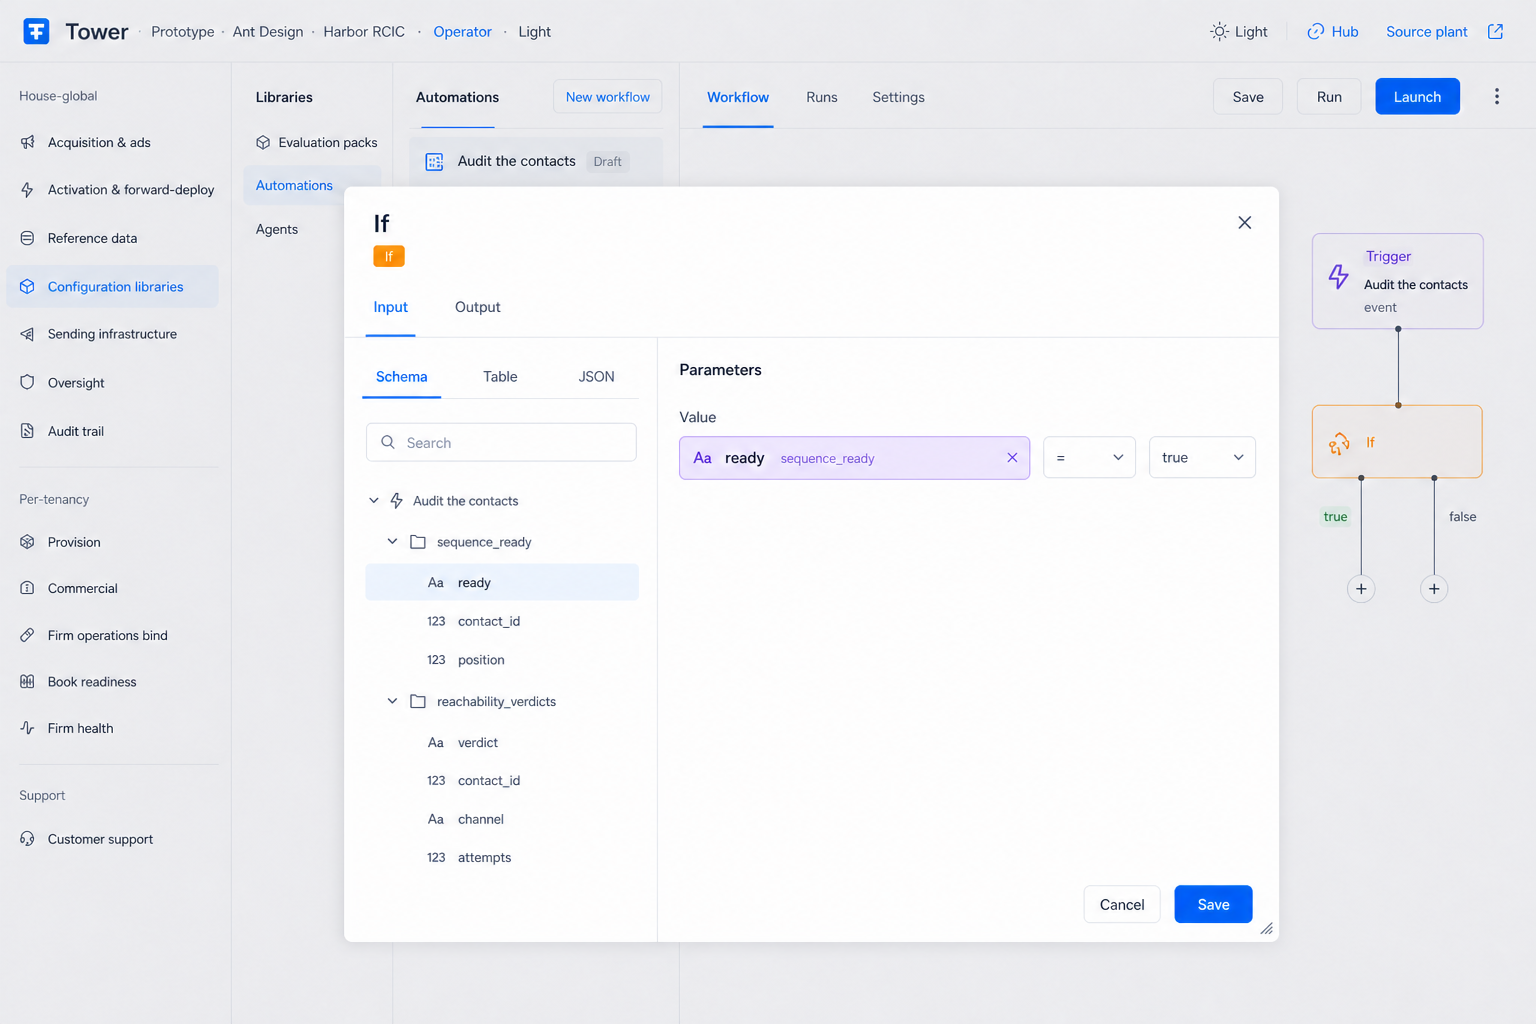
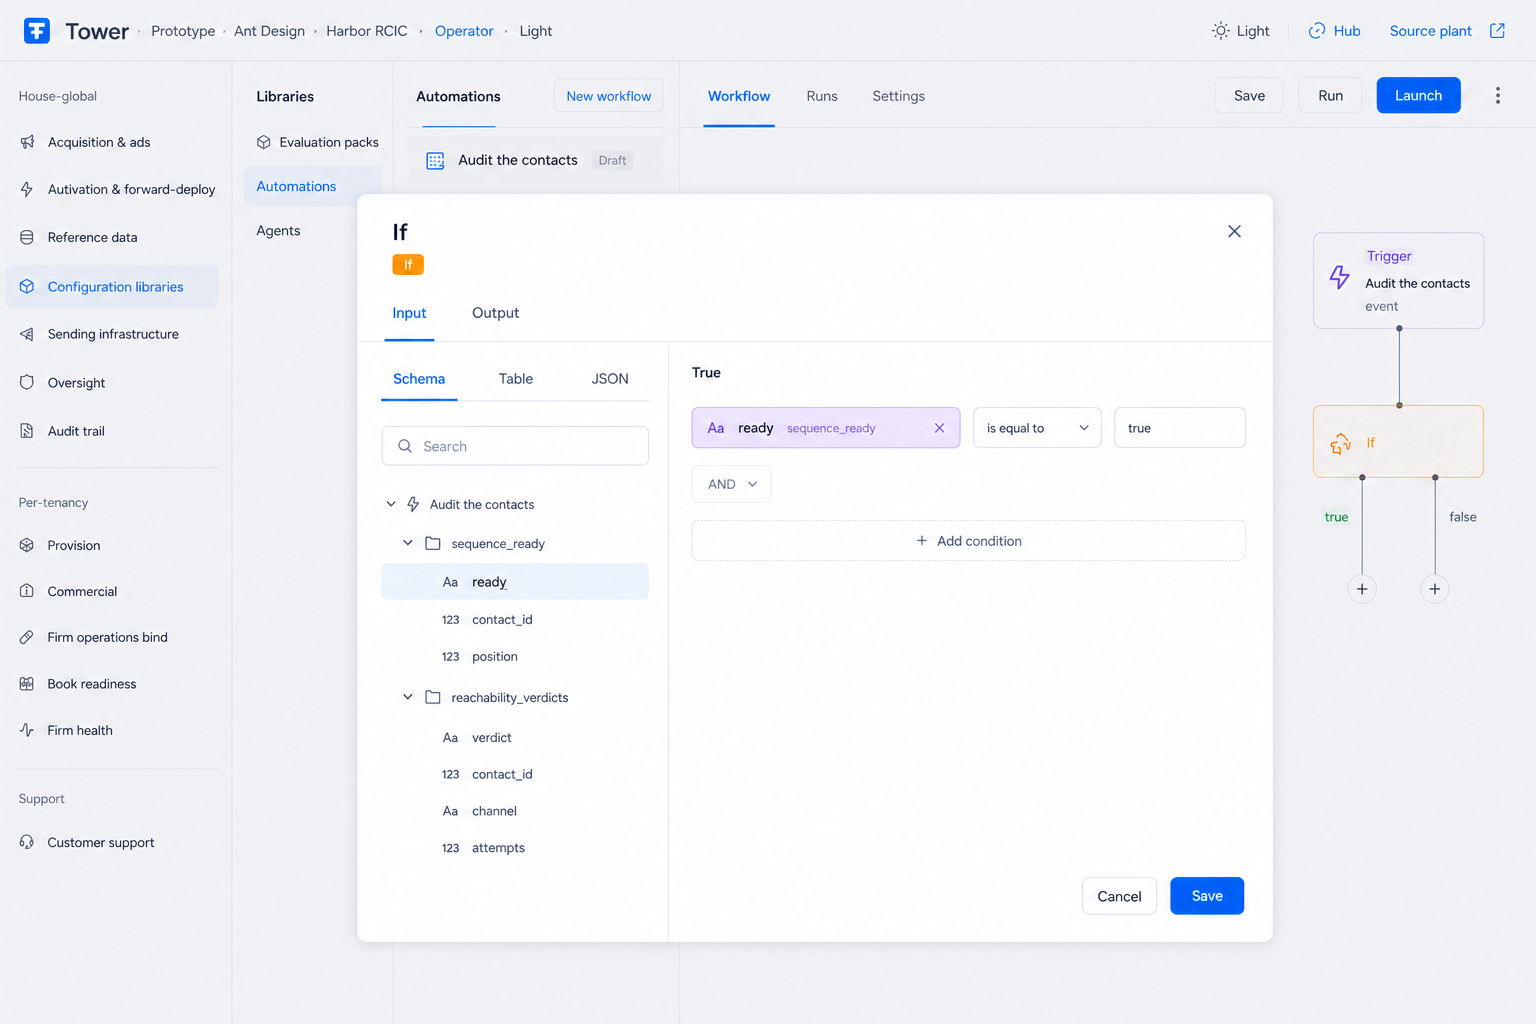
docs: A38 If interior — true is the default mode
Craft the argument. Anything else is false. Do not configure False in the node.

diff --git a/docs/register/IF-SWITCH-PACKET.md b/docs/register/IF-SWITCH-PACKET.md
@@ -1,7 +1,7 @@
 # If / Switch packet — two kinds. Four plates. Paths are wires.
 
 **Seat:** Product Manager. For the **engineer** and the **Systems Analyst**. One pocket.  
-**When:** Founder 2026-08-20 10:46. Plates 10:52. Packet same stamp.  
+**When:** Founder 2026-08-20 10:46. Plates 10:52. If interior revise 11:00. Packet same.  
 **Plates:**  
 - Canvas **If** (two doors): [`A36-if-canvas-true-false.png`](./automations-blueprint/A36-if-canvas-true-false.png)  
 - Canvas **Switch** (many paths): [`A37-switch-canvas-paths.png`](./automations-blueprint/A37-switch-canvas-paths.png)  
@@ -20,7 +20,7 @@
 |----------------------------|---------------------|
 | **A36:** If has **two wires** — true / false | A15 / A16 linear chain. Live IfPlateModal |
 | **A37:** Switch has **many wires**. **+ Add path** adds a wire | Next-node titles on A37 (“Mark as reachable”) — examples |
-| **A38 / A39:** drag from the left **into** the box. Chip **is** the box. Operator. Value. | Then / Else radios. “This is not a rule.” Kind chip strip |
+| **A38 / A39:** drag from the left **into** the box. Chip **is** the box. Operator. Value. **A38: True is the mode.** Craft the argument. Anything else is false. | Then / Else radios. A False form. “This is not a rule.” Kind chip strip |
 | Orange **If** / **Switch** chip **under the title** (A35 placement) | Teaching captions |
 | Paths live on the **canvas** | Picking the next Action inside the modal |
 
@@ -47,7 +47,7 @@ Open:
 
 Canvas: wires ARE the paths. If: true and false leaving the node. Switch: multiple paths extending away; + Add path adds a wire underneath. A16 Then/Else radios inside the modal — do not build.
 
-Interior: same as every node (Input | Output). Drag from the left into the right. That primitive is universal. Chip fills the box (A31). Then an operator and a value. Simplest node. Kind chip under the title (orange If / Switch). No Kind · In the application strip. Color as A35 — more lively. Type glyphs as A35.
+Interior If (A38): **True is the default mode.** Space to craft the argument (chip · operator · value, AND, add condition). Do not configure False in the node. Anything other than that argument is the false wire on the canvas. Interior Switch (A39): rows of paths. Kind chip under the title (orange If / Switch). No Kind · In the application strip. Color as A35. Type glyphs as A35.
 
 Palette and wire +: If and Switch are both kinds (with Get · Rule · Action · Exit). No Trigger on the wire. ⋯ Switch still means change kind — different word from the Switch node.
 
@@ -65,7 +65,7 @@ Do not mint a new graph store from the PNGs. Hub already has branch / if.
 
 A. Two kinds vs one branchKind: if. Name the gap. Switch = N exits + fallback. If = two exits. Smallest existing walk. Silent if silent.
 
-B. Paths are wires, not modal radios. Walk today: pickTable / pickField / pickOp / pickValue plus ifThen / ifElse strings. Name that vs canvas true/false and Switch paths. Do not invent tables from example Action titles on A37.
+B. Paths are wires, not modal radios. If interior: true is the default mode; the argument is what you write; anything else is the false wire. Do not ascribe a False form. Walk today: pickTable / pickField / pickOp / pickValue plus ifThen / ifElse strings. Name that gap.
 
 C. Drag-from-left is law 40 — already the handle. Condition reads a write already on the left. Name how If/Switch pick that write. Stamp SYSTEMS-ANALYST-LOG.
 ```
@@ -79,12 +79,15 @@ C. Drag-from-left is law 40 — already the handle. Condition reads a write alre
 - Live If / Switch do not work like this yet. Primitive: drag left → right is **universal**. Then a figure, then it runs. Simplest node. Not that difficult.
 - Switch: **add more paths** = wires showing underneath.
 - Four mocks: If canvas (true/false), Switch canvas (multiple paths extending away), If interior, Switch interior.
+- **11:00:** one revision to If interior. **Truth is the default mode** so there is space to craft the argument. Anything other than the argument stated in the node is false. (n8n If Parameters.)
 
 ---
 
 ## Law (plain)
 
-**If and Switch are two node kinds.** Same interior primitive as every node: drag from the left into the box. If = two wires (true / false). Switch = many wires; **+ Add path** adds one. The paths are on the canvas, not radios in the modal.
+**If and Switch are two node kinds.** Same interior primitive: drag from the left into the box. If = two wires (true / false). Switch = many wires; **+ Add path** adds one. The paths are on the canvas, not radios in the modal.
+
+**If interior:** **True is the default mode.** Space to craft the argument. Anything other than that argument is false. Do not configure False in the node.
 
 ---
 
@@ -100,12 +103,15 @@ Operator → Configuration libraries → Automations → open a workflow → pal
 
 **Canvas Switch (A37):** several outputs. **+ Add path**. Each path is a wire extending away.
 
-**Interior both (A38 / A39):** Input \| Output. Left tree. Right: mapped chip (occupied box) · operator · value. Switch: one row per path + fallback + Add path. Orange If / Switch chip under the title. Glyphs and color as A35.
+**Interior If (A38):** True is the mode. Craft the argument. Occupied chip · operator · value. AND. Add condition. No False form.
+
+**Interior Switch (A39):** one row per path + fallback + Add path. Orange If / Switch chip under the title. Glyphs and color as A35.
 
 **Palette / A28:** If and Switch both listed.
 
 ## 2. Do not build
 
+- A False form / False tab / configuring the other wire inside If.
 - Then / Else radios that pick the next Action (**A16**).
 - Teaching: “This is not a rule.” Kind · In the application strip.
 - Live IfPlateModal table-name picker as the face.
@@ -140,7 +146,7 @@ Rule interior conditions (law 26). A33. Audit field packet (A34) except as write
 | Live today | This packet |
 |------------|-------------|
 | One kind: Condition (If). Linear chain on A15 | **If** and **Switch**. Forks are wires (**A36** / **A37**) |
-| A16 Then / Else radios. Teaching footer | Interior is the condition only (**A38** / **A39**) |
+| A16 Then / Else radios. Teaching footer | **A38:** True is the mode. Craft the argument. False is everything else |
 | IfPlateModal: SQL table names, eq, duplicate rows | Chip from the left · operator · value |
 | Palette: Condition (If) | Palette: **If** · **Switch** |
 

diff --git a/docs/register/AUTOMATIONS-UI-BLUEPRINT.md b/docs/register/AUTOMATIONS-UI-BLUEPRINT.md
@@ -66,7 +66,7 @@ These files are **chosen**. Later plates revise earlier ones only where the tabl
 | **A16** | [`A16-if-previous-result.png`](./automations-blueprint/A16-if-previous-result.png) | chrome | **Prior** If interior. Then/Else radios. Teaching captions. | 01:20 | **prior.** Canon → **A36** canvas · **A38** interior. Packet [`IF-SWITCH-PACKET.md`](./IF-SWITCH-PACKET.md) |
 | **A36** | [`A36-if-canvas-true-false.png`](./automations-blueprint/A36-if-canvas-true-false.png) | chrome | **If** on the canvas. Two wires: true / false. | 10:52 | Packet [`IF-SWITCH-PACKET.md`](./IF-SWITCH-PACKET.md). Law **46**. |
 | **A37** | [`A37-switch-canvas-paths.png`](./automations-blueprint/A37-switch-canvas-paths.png) | chrome | **Switch** on the canvas. Many paths. **+ Add path** = a wire. | 10:52 | Packet [`IF-SWITCH-PACKET.md`](./IF-SWITCH-PACKET.md). Law **46**. |
-| **A38** | [`A38-if-interior.png`](./automations-blueprint/A38-if-interior.png) | chrome | **If** interior. Chip · operator · value. No Then/Else radios. | 10:52 | Packet [`IF-SWITCH-PACKET.md`](./IF-SWITCH-PACKET.md) |
+| **A38** | [`A38-if-interior.png`](./automations-blueprint/A38-if-interior.png) | chrome | **If** interior. **True is the mode.** Craft the argument. No False form. | 10:52 · **11:00** | Packet [`IF-SWITCH-PACKET.md`](./IF-SWITCH-PACKET.md) |
 | **A39** | [`A39-switch-interior.png`](./automations-blueprint/A39-switch-interior.png) | chrome | **Switch** interior. One row per path. **+ Add path.** | 10:52 | Packet [`IF-SWITCH-PACKET.md`](./IF-SWITCH-PACKET.md) |
 | **A17** | [`A17-trigger-firm-provisioned.png`](./automations-blueprint/A17-trigger-firm-provisioned.png) | chrome | Inside trigger. Event = **firm created / provisioned**. | 01:20 | companion to A5 |
 | **A18** | [`A18-trigger-global-local.png`](./automations-blueprint/A18-trigger-global-local.png) | chrome | Inside trigger. After the event: **Global** (all of that kind) or **Local** (this specific one). Example: form submitted. | 18:53 | **prior.** Grain as radios. Grain dropdown → **A26** |
@@ -847,15 +847,15 @@ Fallback: if Ant has no Rule GUI (it does not), the picture is still the face. H
 
 ![A38 If interior](./automations-blueprint/A38-if-interior.png)
 
-**Rationale (10:46, 10:52):** Simplest node. Drag left into the box. Operator. Value. Orange **If** chip under the title. No Then/Else radios.
+**Rationale (10:46, 10:52, revise 11:00):** **True is the default mode.** Space to craft the argument. Anything other than that argument is false. Do not configure False in the node. Orange **If** chip under the title.
 
-**On the glass:** Input \| Output. Occupied chip. = true.
+**On the glass:** Header **True**. Chip · is equal to · value. AND. Add condition. No False form.
 
-**Do not build:** teaching captions. Kind strip. A16 radios.
+**Do not build:** a False tab. Then/Else radios. Teaching captions.
 
-**Stale pixel:** extra tree fields (`position`, `channel`). Trust chip · operator · value. Kind chip under title is spec even if a PNG missed it.
+**Stale pixel:** extra tree fields. Trust **True** as the mode and the argument rows.
 
-**Not this plate:** Switch interior. Canvas fork (A36).
+**Not this plate:** Switch interior. Canvas fork (A36) still has two wires.
 
 ---
 

diff --git a/docs/register/AUTOMATIONS-FACE.md b/docs/register/AUTOMATIONS-FACE.md
@@ -146,7 +146,7 @@
 43. **Run is execute now. Launch is arm.** Run: given the trigger’s data, walk the chain. Do not wait for the event. This app is the sandbox — Run writes. Two grains (n8n): on the **active node**, run **up to** that node (breaks if that node is not configured); on the canvas, run **until it breaks**. Launch: from now on, when this event happens, do this. Live Launch today activates **and** fires a manual run — split that. Do not recut 015. Packet: [`RUN-PACKET.md`](./RUN-PACKET.md).
 44. **A field on the contact is the same field an Action writes.** The visual is that **column** on Contacts (pills in the cell). Add another field the same way — it shows on the person and it is available in Actions. Do not invent a parallel Automations-only field. **Plate chips must be that field’s values.** Live **Tag** is valid / invalid. Leave it. Do not spec Tag from A34. Parity: if the plate is imprecise, it confuses the founder, then SA, then everyone else.
 45. **The Audit field is a system control. Do not automate it as its own action.** First critical write they **do not** want as an Automations ascribe. When an audit runs — desk or the **Run audit** action — that field **populates**. Hardcoded. **Composite:** everything that can be true about the person after a verdict, one field, many chips (reachable / partial / unreachable · sequence-ready). Not one tag. **Not Tag.** Different field. Because it is a field, a **condition** can reference it. Get contact always includes it. Plate **A34**. Packet: [`AUDIT-FIELD-PACKET.md`](./AUDIT-FIELD-PACKET.md). Do not put “set audit field” on **A33**. Do not recut 015. Do not talk about live Tag.
-46. **If and Switch are two node kinds.** Same primitive: drag from the left into the box (law 40). **If** = one split, two wires (true / false). **Switch** = many wires; **+ Add path** adds a wire. One Switch does what at least two Ifs do. Only one separation → If is the choice; both remain the choice in that scenario. Paths are **canvas wires**, not Then/Else radios in the modal (**A16** prior). Interiors **A38** / **A39**. Canvas **A36** / **A37**. Packet: [`IF-SWITCH-PACKET.md`](./IF-SWITCH-PACKET.md). **⋯ Switch** is still change-kind (law 38) — different word. Do not collapse with Rule conditions (law 26).
+46. **If and Switch are two node kinds.** Same primitive: drag from the left into the box (law 40). **If** = one split, two wires (true / false). **Switch** = many wires; **+ Add path** adds a wire. One Switch does what at least two Ifs do. Only one separation → If is the choice; both remain the choice in that scenario. Paths are **canvas wires**, not Then/Else radios in the modal (**A16** prior). **If interior (A38):** **true is the default mode.** The pane is the **argument**. Anything other than that argument is false — do not configure false in the node. Interiors **A38** / **A39**. Canvas **A36** / **A37**. Packet: [`IF-SWITCH-PACKET.md`](./IF-SWITCH-PACKET.md). **⋯ Switch** is still change-kind (law 38) — different word. Do not collapse with Rule conditions (law 26).
 
 ---
 

diff --git a/docs/register/PHASE-TWO-LOG.md b/docs/register/PHASE-TWO-LOG.md
@@ -2,7 +2,7 @@
 
 **Purpose:** Running log so a new agent can start where we stopped. Thesis stays in [`PHASE-TWO.md`](./PHASE-TWO.md). Nothing is more important than this file staying current.
 
-**Current (read first, then the newest stamp at the bottom):** Agents **flagship** = 2026-08-15 15:43 UTC. **IF-SWITCH-PACKET** A36–A39. Law **46**. Both kinds. Paths are wires. Do not plant.
+**Current (read first, then the newest stamp at the bottom):** Agents **flagship** = 2026-08-15 15:43 UTC. **IF-SWITCH-PACKET** A36–A39. If interior: **true is the default mode.** Law **46**. Do not plant.
 
 **How we maintain this log**
 
@@ -1727,6 +1727,18 @@ Flag 15:43 untouched.
 **What we did:** Law **46**. Plates **A36–A39**. Packet [`IF-SWITCH-PACKET.md`](./IF-SWITCH-PACKET.md). A16 Then/Else radios are **prior**. **⋯ Switch** ≠ Switch node. Parked: forgotten first item; Run check (they will look); notification system.
 
 **Do not:** recut 015; overwrite 15:43; plant; one kind only; Then/Else in the modal.
+
+Flag 15:43 untouched.
+
+---
+
+## 2026-08-20 11:00 UTC — If interior: true is the default mode.
+
+**Why:** Founder: one revision to If interior because it matters. **Truth is the default mode** so it gives space to craft the argument. Look at n8n If. **Anything other than the argument stated in the node is false.**
+
+**What we did:** Revise **A38**. Law **46** tail. Packet. Canvas **A36** still two wires. Do not configure False in the node.
+
+**Do not:** a False form; recut 015; overwrite 15:43; plant.
 
 Flag 15:43 untouched.
 
